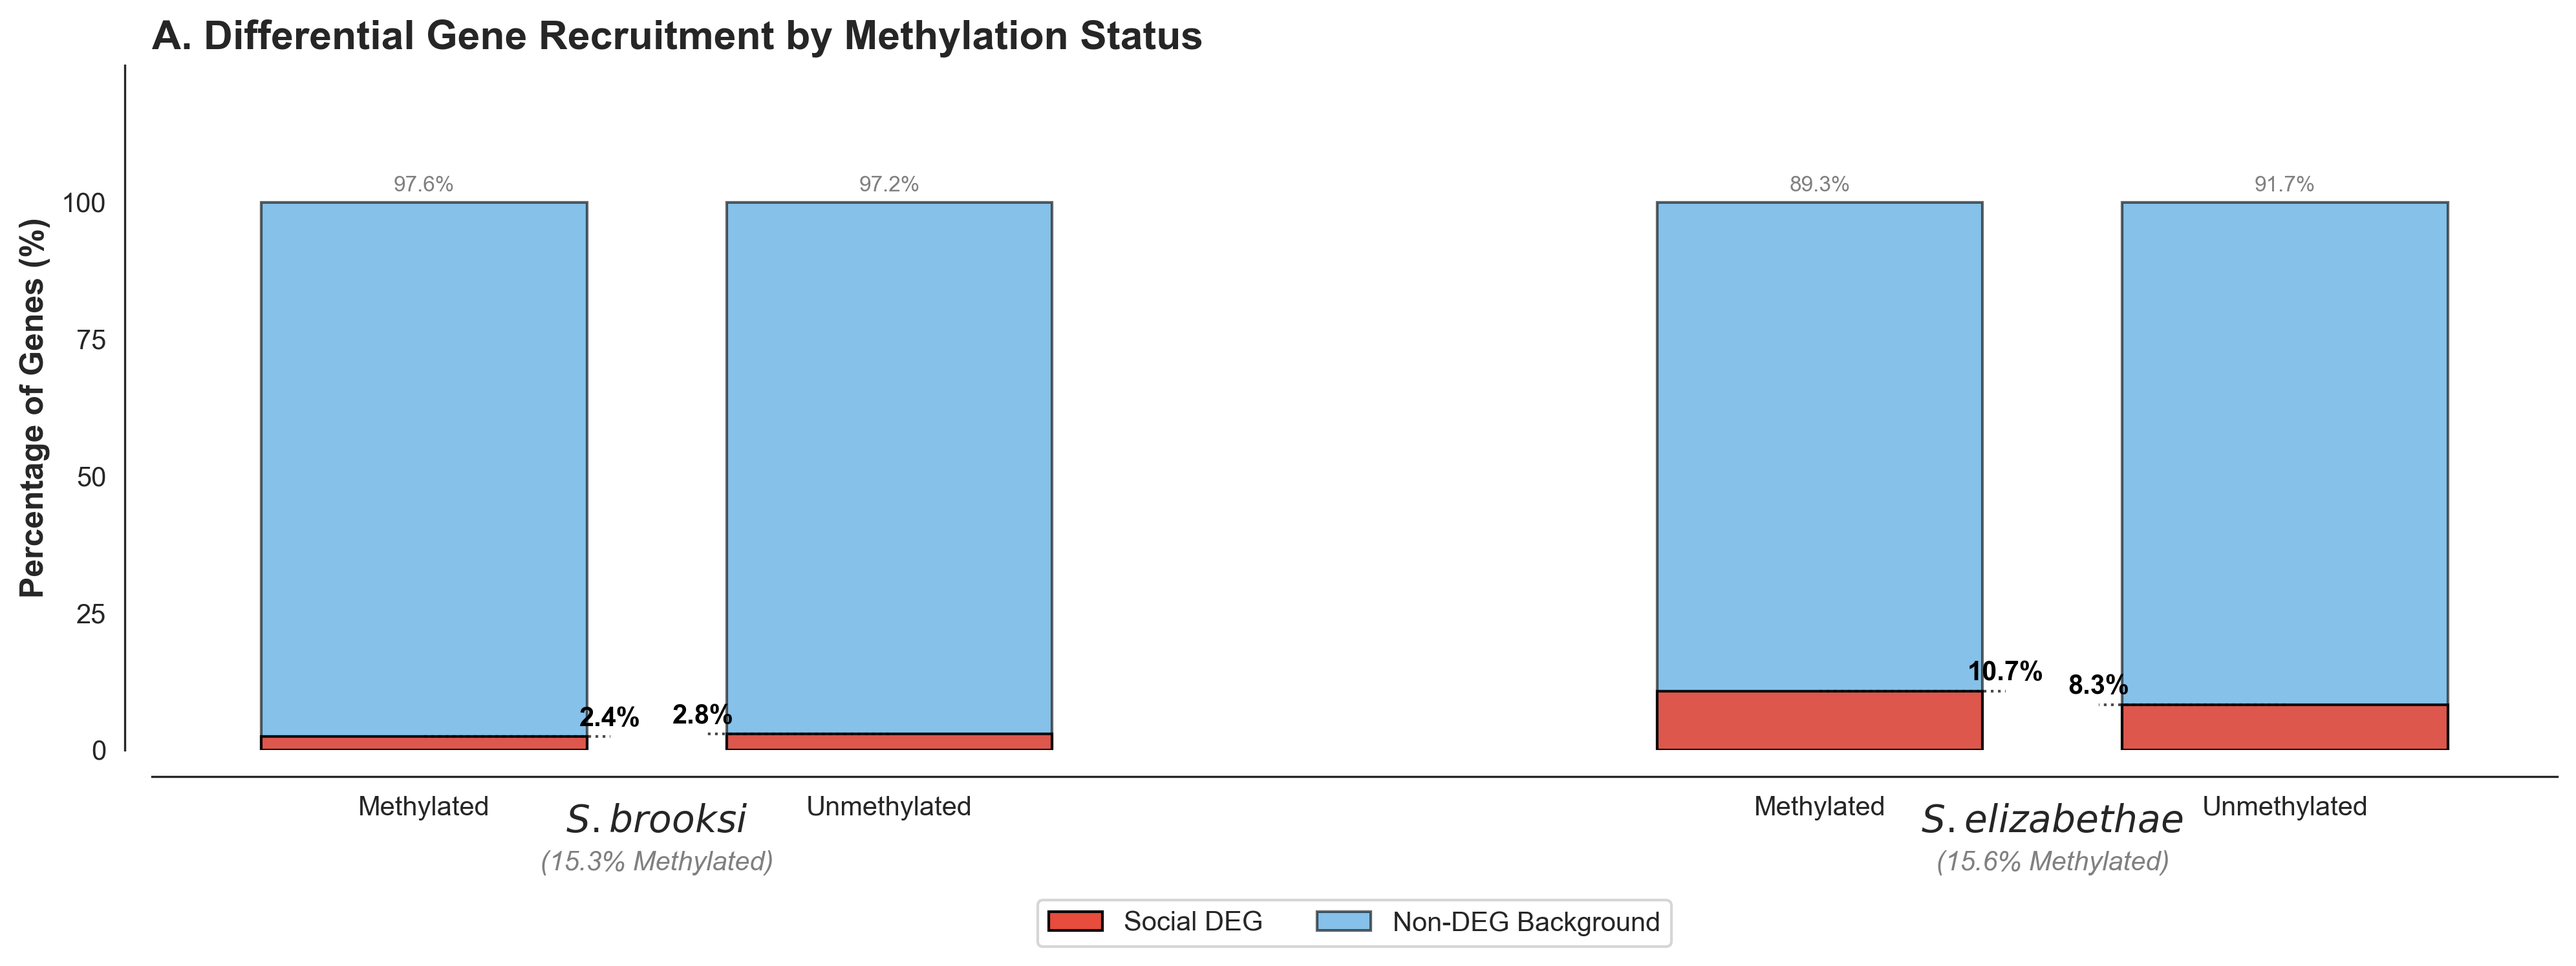
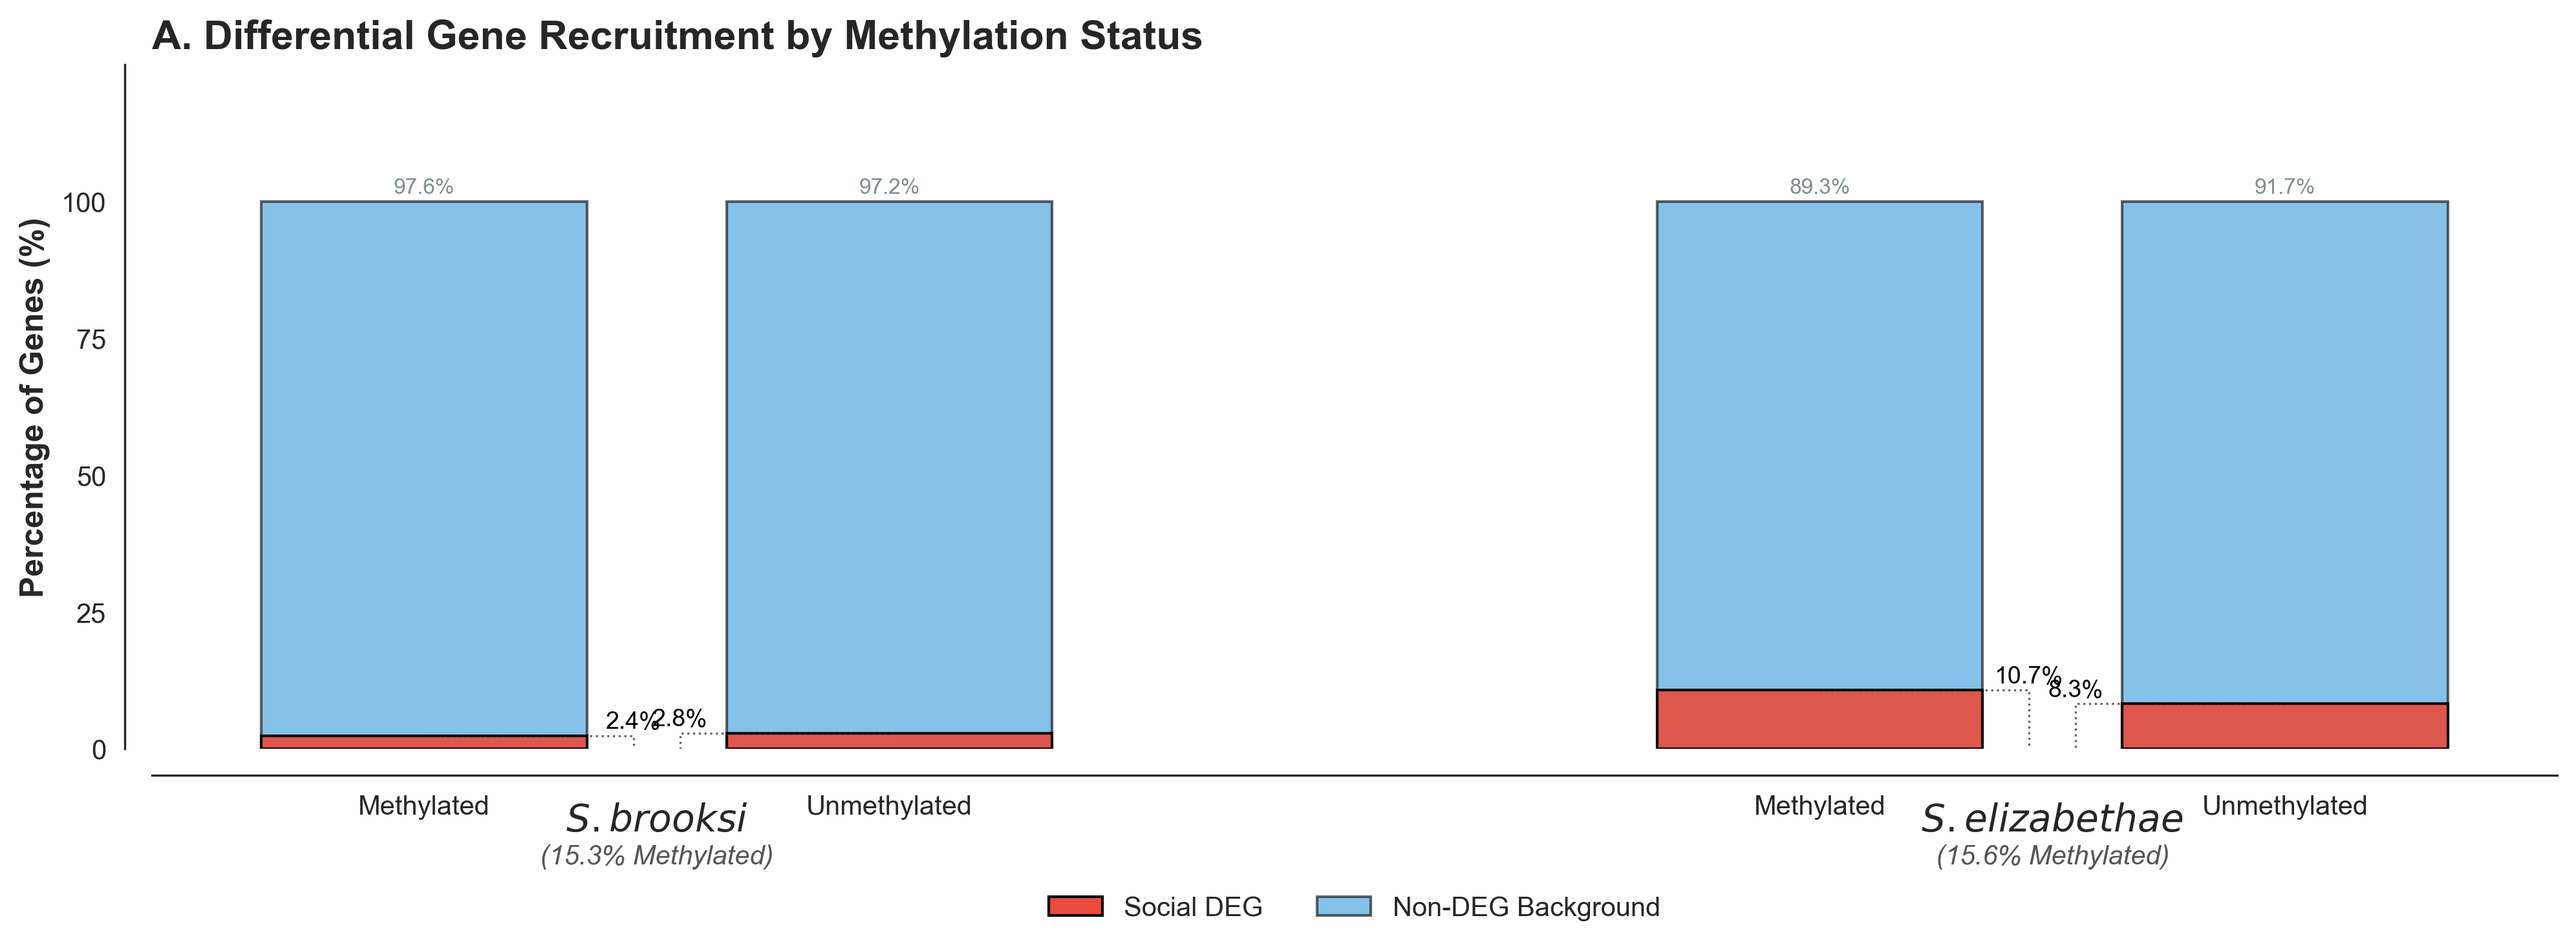
SCHEMATIC Figure 4: L-shaped drop lines create professional coordinate mapping

diff --git a/scripts/05_definitive_orthology/create_figure4_precision.py b/scripts/05_definitive_orthology/create_figure4_precision.py
@@ -1,13 +1,14 @@
 #!/usr/bin/env python3
 """
-Figure 4 - Precision Version
-Exact statistics with dotted line annotations
+Figure 4 - Precision Schematic Version
+Exact statistics with L-shaped drop lines to x-axis
 """
 
 import pandas as pd
 import matplotlib.pyplot as plt
 import numpy as np
 import seaborn as sns
+from matplotlib.patches import Patch
 
 # --- CONFIGURATION ---
 sns.set_style("white") 
@@ -17,21 +18,21 @@ DEG_COLOR = '#e74c3c'  # Social DEG
 BG_COLOR = '#3498db'   # Background Blue
 
 def create_publication_figure():
+    # Use a large layout to ensure no overlap
     fig = plt.figure(figsize=(16, 11))
     gs = fig.add_gridspec(2, 2, hspace=0.4, wspace=0.3)
     ax1 = fig.add_subplot(gs[0, :])
 
-    # 1. Exact Statistics from your previous successful run
+    # 1. Exact Statistics
     # Brooksi: 20/842 (2.4%), 133/4673 (2.8%)
     # Elizabethae: 84/783 (10.7%), 349/4229 (8.3%)
-    
     species_list = [
         ('S. brooksi', [20, 822], [133, 4540]), 
         ('S. elizabethae', [84, 699], [349, 3880])
     ]
 
     for idx, (name, meth_counts, unmeth_counts) in enumerate(species_list):
-        # Calculate Proportions
+        # Calculate Proportions accurately
         m_total = sum(meth_counts)
         u_total = sum(unmeth_counts)
         m_deg_p = (meth_counts[0] / m_total) * 100
@@ -41,31 +42,43 @@ def create_publication_figure():
         x_pos = [off, off + 1]
         heights = [m_deg_p, u_deg_p]
         
-        # Plot Bars (Bottom Red, Top Blue)
-        # We plot the full 100% background first, then overlay the DEG
-        ax1.bar(x_pos, [100, 100], color=BG_COLOR, alpha=0.6, edgecolor='black', width=0.7)
-        ax1.bar(x_pos, heights, color=DEG_COLOR, alpha=0.9, edgecolor='black', width=0.7)
+        # Plot 100% Background Bars (Blue)
+        ax1.bar(x_pos, [100, 100], color=BG_COLOR, alpha=0.6, edgecolor='black', width=0.7, zorder=1)
+        # Plot DEG Bars (Red)
+        ax1.bar(x_pos, heights, color=DEG_COLOR, alpha=0.9, edgecolor='black', width=0.7, zorder=2)
 
-        # 2. ADD PRECISION ANNOTATIONS (The Dotted Line + Out-of-the-way Text)
+        # 2. PRECISION CONNECTORS (L-shaped drop line to X-axis)
         for i, h in enumerate(heights):
-            x = x_pos[i]
-            # Thin dotted line extending from the bar toward the species center
-            line_dir = 0.4 if i == 0 else -0.4
-            ax1.plot([x, x + line_dir], [h, h], color='black', linestyle=':', linewidth=1, alpha=0.7)
+            x_coord = x_pos[i]
             
-            # Text placement: On the end of the dotted line, slightly above
-            ax1.text(x + line_dir, h + 1, f'{h:.1f}%', ha='center', va='bottom', 
-                     fontsize=10, fontweight='bold', color='black')
-            
-            # Non-DEG label (at the top 100% mark)
-            ax1.text(x, 102, f'{(100-h):.1f}%', ha='center', fontsize=8, color='gray')
+            # Direction of the callout (pointing towards the center of each species group)
+            callout_dir = 0.45 if i == 0 else -0.45
+            callout_x = x_coord + callout_dir
 
-        # 3. Labeling and Stats
+            # Draw the "Drop Line": 
+            # (Bar transition -> Side extension -> Drop to X-axis)
+            line_coords_x = [x_coord, callout_x, callout_x]
+            line_coords_y = [h, h, 0]
+            
+            ax1.plot(line_coords_x, line_coords_y, color='black', 
+                     linestyle=':', linewidth=0.8, alpha=0.6, zorder=3)
+            
+            # 3. PERCENTAGE TEXT (Small, Black, Not Bold)
+            # Placed slightly above the horizontal segment of the dotted line
+            ax1.text(callout_x, h + 0.5, f'{h:.1f}%', 
+                     ha='center', va='bottom', fontsize=9, 
+                     fontweight='normal', color='black')
+            
+            # Non-DEG label at the top 100% mark (Subtle)
+            ax1.text(x_coord, 101.5, f'{(100-h):.1f}%', ha='center', fontsize=8, color='#7f8c8d')
+
+        # 4. Species and Global Methylation Status Labels
         ax1.text(off + 0.5, -15, rf"$\mathit{{{name}}}$", ha='center', fontsize=14, fontweight='bold')
-        meth_rate = (m_total / (m_total + u_total)) * 100
-        ax1.text(off + 0.5, -22, f"({meth_rate:.1f}% Methylated)", ha='center', fontsize=10, color='gray', style='italic')
+        meth_total_rate = (m_total / (m_total + u_total)) * 100
+        ax1.text(off + 0.5, -21, f"({meth_total_rate:.1f}% Methylated)", 
+                 ha='center', fontsize=10, color='#555555', style='italic')
 
-    # Formatting Panel A
+    # --- FORMATTING PANEL A ---
     ax1.set_ylim(0, 125)
     ax1.set_yticks([0, 25, 50, 75, 100])
     ax1.set_xticks([0, 1, 3, 4])
@@ -73,15 +86,16 @@ def create_publication_figure():
     ax1.set_ylabel('Percentage of Genes (%)', fontweight='bold', fontsize=12)
     ax1.set_title('A. Differential Gene Recruitment by Methylation Status', loc='left', fontsize=15, fontweight='bold')
     
-    # Legend
-    from matplotlib.patches import Patch
+    # Clean Legend
     legend_elements = [Patch(facecolor=DEG_COLOR, edgecolor='black', label='Social DEG'),
                        Patch(facecolor=BG_COLOR, alpha=0.6, edgecolor='black', label='Non-DEG Background')]
-    ax1.legend(handles=legend_elements, loc='upper center', bbox_to_anchor=(0.5, -0.2), ncol=2)
+    ax1.legend(handles=legend_elements, loc='upper center', bbox_to_anchor=(0.5, -0.18), ncol=2, frameon=False)
 
     sns.despine(ax=ax1, offset=10)
+    
+    # Save output
     plt.savefig('Results/05_ortholog_analysis/figure4_combined_summary.png', bbox_inches='tight', dpi=300)
-    print("✓ Precision Figure 4 saved.")
+    print("✓ Figure 4 (Precision Schematic) saved.")
 
 if __name__ == "__main__":
     create_publication_figure()
